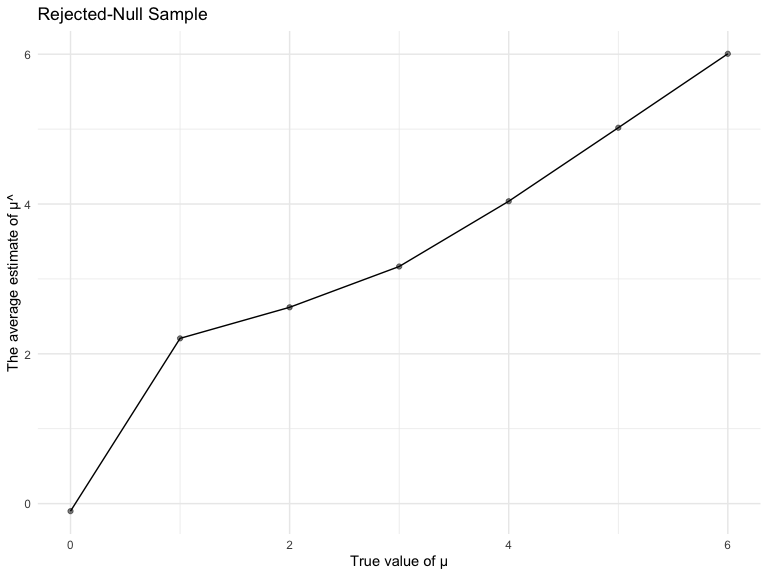
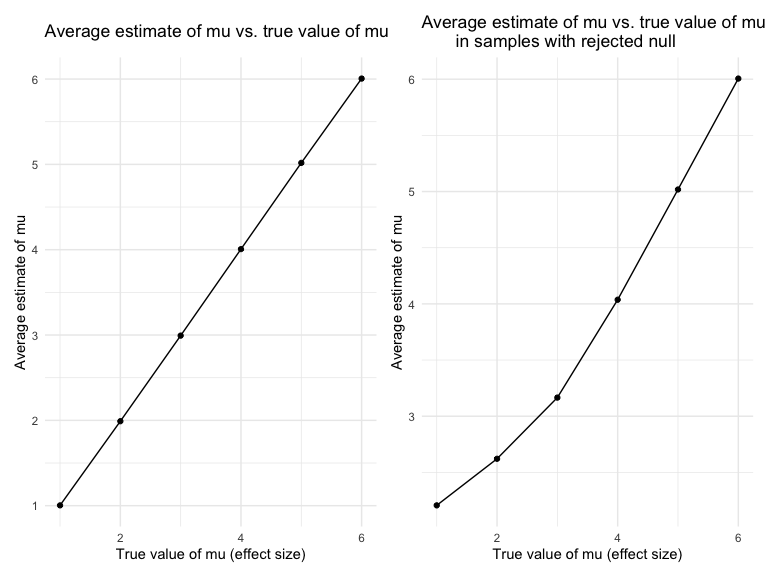
Final plotting for problem 3...

diff --git a/p8105_hw5_yc4017.md b/p8105_hw5_yc4017.md
@@ -11,6 +11,7 @@ First we load the packages necessary to knit this document.
 library(tidyverse)
 library(p8105.datasets)
 library(viridis)
+library(patchwork)
 
 set.seed(1)
 
@@ -312,5 +313,61 @@ increases.
 Now we want to make a plot showing the average estimate of mu on the y
 axis and the true value of mu on the x axis.
 
-We want another plot showing the average estimate of mu only in samples
-for which null was rejected on the y axis.
+``` r
+avg_est_plot = sim_results_df %>% 
+  group_by(effect_size) %>% 
+  summarize(avg_est_mu = mean(estimate)) %>% 
+  ggplot(aes(x = effect_size, y = avg_est_mu)) +
+  geom_point() + 
+  geom_line() +
+  labs(title = "Average estimate of mu vs. true value of mu",
+       x = "True value of mu (effect size)", 
+       y = "Average estimate of mu") +
+  scale_y_continuous(
+    breaks = c(0, 1, 2, 3, 4, 5, 6)
+  )
+
+avg_est_plot
+```
+
+<img src="p8105_hw5_yc4017_files/figure-gfm/average estimate plot-1.png" width="90%" />
+
+And finally we want another plot showing the average estimate of mu only
+in samples for which null was rejected on the y axis.
+
+``` r
+reject_plot = sim_results_df %>% 
+  filter(p.value < 0.05) %>% 
+  group_by(effect_size) %>% 
+  summarize(avg_est_mu = mean(estimate)) %>% 
+  ggplot(aes(x = effect_size, y = avg_est_mu)) +
+  geom_point() + 
+  geom_line() +
+  labs(title = "Average estimate of mu vs. true value of mu
+       in samples with rejected null",
+       x = "True value of mu (effect size)", 
+       y = "Average estimate of mu") +
+  scale_y_continuous(
+    breaks = c(0, 1, 2, 3, 4, 5, 6)
+  )
+
+reject_plot
+```
+
+<img src="p8105_hw5_yc4017_files/figure-gfm/unnamed-chunk-12-1.png" width="90%" />
+
+``` r
+avg_est_plot + reject_plot
+```
+
+<img src="p8105_hw5_yc4017_files/figure-gfm/unnamed-chunk-12-2.png" width="90%" />
+
+Based on the plots, we can see that the sample average of mu across
+tests for which the null is rejected is not always approximately equal
+to the true value of mu. We see that when mu is less than 4, the
+approximation is very poor. This is because of the low power to reject
+the null when the effect size is small. As the effect size increases,
+the power increases, and hence the the average mu for which the null is
+rejected gets closer and closer to the true value of mu. When the effect
+size is greater or equal to 4, the two values approximate each other
+well.
